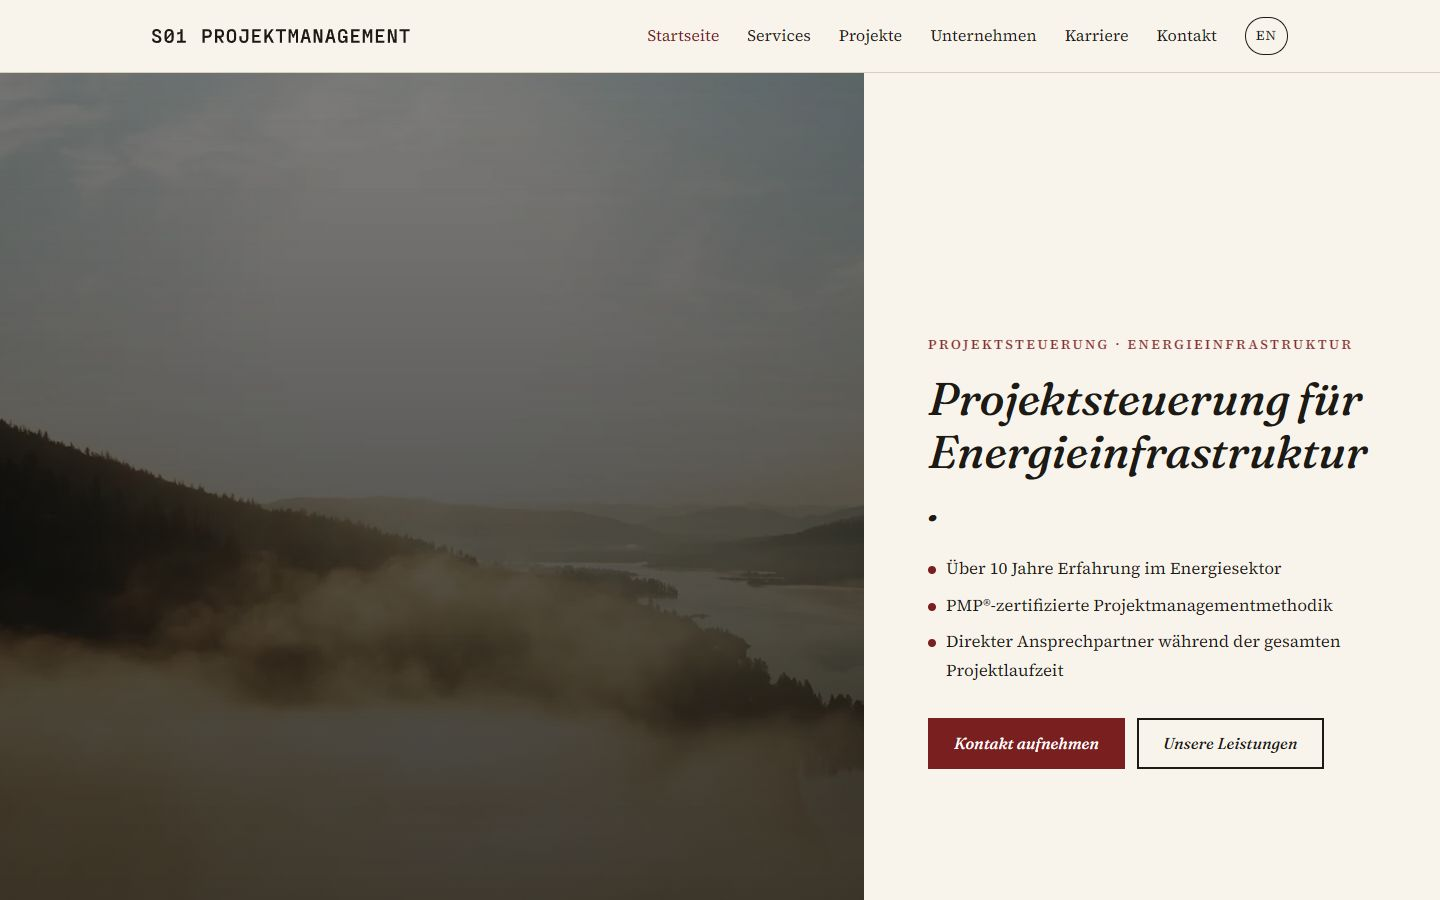
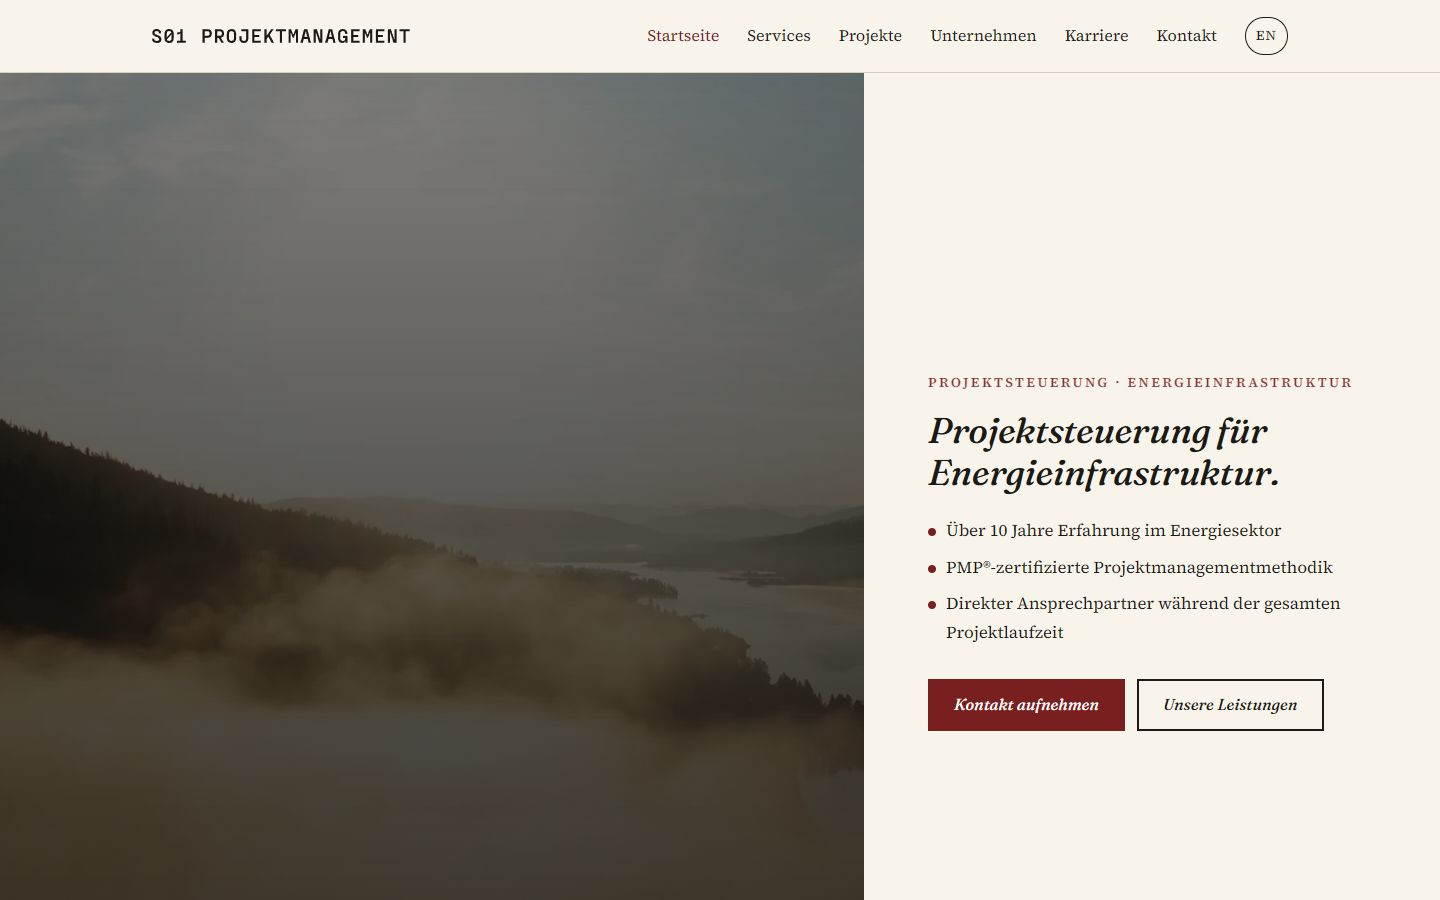
Keep headlines whole at desktop widths: wider split-hero column, four-column grids from 1280px, headline caps
A controller visual pass of all 24 desktop thumbnails found the hero title breaking before its final word or period in demos 07, 10, 11, 20 and 21, and a scan at 768 to 1440px found 17-letter pillar headings breaking in four-column grids between 1024 and 1279px. Kit: the split hero uses equal columns from 1024px and the 3:2 split only from 1366px, with a smaller title; four-column grids and steps start at 1280px and three-column grids at 1100px; sidebar layouts keep two columns longer; pillar headings are 1.125rem; page-hero titles get a 28ch box; the glass hero panel loses side padding on phones. Themes: 11, 21 and 22 cap their headline size; 06 drops uppercase h3 below 1024px and shrinks pillar headings. Every demo now measures clean for overflow, split words up to 20 letters and orphaned punctuation at 320, 360, 390, 768, 1024, 1100, 1200, 1280, 1366 and 1440px, except 18+ letter h3 words at 360 and 1024px that hyphenate in browsers with a German dictionary. Thumbnails regenerated.

Claude-Session: https://claude.ai/code/session_01MvgPpcENZGA6QrERHRxL79

Changed region(s): [[0.625, 0.3733, 0.9688, 0.5911], [0.625, 0.6222, 0.9375, 0.8711]]

diff --git a/kit/base.css b/kit/base.css
@@ -78,7 +78,8 @@ table { border-collapse: collapse; width: 100%; }
 .lead { font-size: 1.15rem; color: var(--muted); }
 .grid { display: grid; gap: 24px; }
 @media (min-width: 640px) { .grid-2, .grid-3, .grid-4 { grid-template-columns: repeat(2, minmax(0, 1fr)); } }
-@media (min-width: 1024px) { .grid-3 { grid-template-columns: repeat(3, minmax(0, 1fr)); } .grid-4 { grid-template-columns: repeat(4, minmax(0, 1fr)); } }
+@media (min-width: 1100px) { .grid-3 { grid-template-columns: repeat(3, minmax(0, 1fr)); } }
+@media (min-width: 1280px) { .grid-4 { grid-template-columns: repeat(4, minmax(0, 1fr)); } }
 .card { background: var(--surface); border: 1px solid var(--border); border-radius: var(--radius-lg); overflow: hidden; display: flex; flex-direction: column; }
 .card-pad, .project-card, .job { padding: 28px; }
 .card-body { padding: 24px; display: flex; flex-direction: column; flex: 1; }
@@ -88,7 +89,7 @@ img[src$="engineer-substation.jpg"] { object-position: 50% 22%; }
 .label { font-size: 0.8rem; text-transform: uppercase; letter-spacing: 0.1em; color: var(--muted); margin-bottom: 6px; }
 .num { font-family: var(--font-heading); font-weight: 700; color: var(--accent); font-variant-numeric: tabular-nums; }
 .num.big { font-size: 2.5rem; line-height: 1; display: block; margin-bottom: 12px; }
-.pillar h3 { margin-bottom: 8px; }
+.pillar h3 { margin-bottom: 8px; font-size: 1.125rem; }
 .pillar p { color: var(--muted); margin: 0; }
 
 /* lists */
@@ -174,9 +175,9 @@ body.nav-transparent-layout:not(.page-home) .nav-transparent:not(.is-scrolled), 
   body.nav-sidebar-layout main, body.nav-sidebar-layout .site-footer { margin-left: var(--sidebar-w); }
   body.nav-sidebar-layout { --max-width: 1100px; }
 }
-@media (min-width: 1024px) and (max-width: 1279px) {
-  body.nav-sidebar-layout .grid-3, body.nav-sidebar-layout .grid-4, body.nav-sidebar-layout .stats, body.nav-sidebar-layout .steps { grid-template-columns: repeat(2, minmax(0, 1fr)); }
-  body.nav-sidebar-layout .hero-split { grid-template-columns: minmax(0, 1fr) minmax(0, 1fr); }
+@media (min-width: 1024px) { body.nav-sidebar-layout .grid-4, body.nav-sidebar-layout .steps { grid-template-columns: repeat(2, minmax(0, 1fr)); } }
+@media (min-width: 1024px) and (max-width: 1439px) {
+  body.nav-sidebar-layout .grid-3, body.nav-sidebar-layout .stats { grid-template-columns: repeat(2, minmax(0, 1fr)); }
   body.nav-sidebar-layout .hero-split .hero-content { padding-inline: 28px; }
 }
 
@@ -201,17 +202,22 @@ body.nav-transparent-layout:not(.page-home) .nav-transparent:not(.is-scrolled), 
 .hero-glass { align-items: center; }
 .hero-glass .hero-content { padding-bottom: 12vh; }
 .glass-panel { background: rgba(255, 255, 255, 0.12); border: 1px solid rgba(255, 255, 255, 0.28); backdrop-filter: blur(18px) saturate(140%); -webkit-backdrop-filter: blur(18px) saturate(140%); border-radius: var(--radius-lg); padding: clamp(24px, 4vw, 48px); max-width: 720px; box-shadow: 0 30px 80px rgba(0, 0, 0, 0.25); }
+@media (max-width: 639px) { .glass-panel { padding-inline: 16px; } }
 .hero-split { display: grid; grid-template-columns: minmax(0, 1fr); grid-template-rows: 60svh auto; align-items: stretch; color: var(--fg); min-height: 100svh; }
 .hero-split-media { position: relative; min-height: 60svh; }
 .hero-split .hero-content { padding: 48px var(--gutter); display: flex; flex-direction: column; justify-content: center; background: var(--bg); color: var(--fg); }
 .hero-split .hero-bullets li::before { background: var(--accent); }
 @media (min-width: 1024px) {
-  .hero-split { grid-template-columns: minmax(0, 3fr) minmax(0, 2fr); grid-template-rows: none; }
+  .hero-split { grid-template-columns: minmax(0, 1fr) minmax(0, 1fr); grid-template-rows: none; }
   .hero-split-media { min-height: 100svh; }
   .hero-split .hero-content { padding: calc(var(--nav-h) + 48px) 64px 64px; }
-  .hero-split .hero-title { font-size: clamp(2rem, 3.2vw, 3.4rem); }
+  .hero-split .hero-title { font-size: clamp(1.9rem, 2.5vw, 3rem); }
   .glass-panel .hero-title { font-size: clamp(2rem, 4.2vw, 3.6rem); }
-  body.nav-sidebar-layout .hero-split .hero-title { font-size: clamp(1.8rem, 2.4vw, 2.4rem); }
+  body.nav-sidebar-layout .hero-split .hero-title { font-size: clamp(1.8rem, 2.2vw, 2.4rem); }
+}
+@media (min-width: 1366px) {
+  .hero-split { grid-template-columns: minmax(0, 3fr) minmax(0, 2fr); }
+  body.nav-sidebar-layout .hero-split { grid-template-columns: minmax(0, 1fr) minmax(0, 1fr); }
 }
 .hero-play { position: absolute; right: 24px; top: calc(var(--nav-h) + 24px); z-index: 2; width: 64px; height: 64px; border-radius: 50%; border: 2px solid rgba(255, 255, 255, 0.7); background: rgba(0, 0, 0, 0.45); color: #fff; display: flex; align-items: center; justify-content: center; cursor: pointer; }
 .hero-play[hidden] { display: none; }
@@ -236,7 +242,7 @@ body.snap-home .site-footer { scroll-snap-align: end; }
 /* ===== Page hero (subpages) ===== */
 .page-hero { position: relative; padding: 56px 0 48px; background: var(--surface); overflow: hidden; isolation: isolate; }
 .page-hero .container { position: relative; z-index: 1; }
-.page-hero h1 { margin-bottom: 12px; max-width: 24ch; }
+.page-hero h1 { margin-bottom: 12px; max-width: 28ch; }
 .page-hero .lead { max-width: 720px; margin: 0; }
 .page-hero.has-media { color: var(--hero-fg); min-height: 52svh; display: flex; align-items: flex-end; }
 .page-hero.has-media .lead { color: inherit; opacity: 0.9; }
@@ -396,7 +402,7 @@ body.snap-home .site-footer { scroll-snap-align: end; }
 .job-actions { margin-top: auto; padding-top: 20px; display: flex; flex-wrap: wrap; gap: 12px; }
 .steps { list-style: none; padding: 0; margin: 0; display: grid; gap: 24px; counter-reset: step; }
 @media (min-width: 768px) { .steps { grid-template-columns: repeat(2, minmax(0, 1fr)); } }
-@media (min-width: 1024px) { .steps { grid-template-columns: repeat(4, minmax(0, 1fr)); } }
+@media (min-width: 1280px) { .steps { grid-template-columns: repeat(4, minmax(0, 1fr)); } }
 .step { padding: 24px; background: var(--surface); border: 1px solid var(--border); border-radius: var(--radius-lg); }
 .step .num { font-size: 2rem; display: block; margin-bottom: 12px; }
 .step p { color: var(--muted); margin: 0; }

diff --git a/demos/06-brutalist/theme.css b/demos/06-brutalist/theme.css
@@ -57,3 +57,5 @@ h1, h2, h3 { text-transform: uppercase; letter-spacing: -0.01em; font-weight: 40
 /* Phone sizes: the phone rules come last so they win over the uppercase and size rules above. */
 @media (max-width: 639px) { .hero-title { display: block; padding: 0.1em 0.2em; } h1, h2, h3, .acc-trigger { text-transform: none; } }
 @media (max-width: 359px) { .acc-trigger { font-size: 1rem; } }
+@media (max-width: 1023px) { h3 { text-transform: none; } }
+@media (min-width: 1280px) { .pillar h3 { font-size: 1rem; } }

diff --git a/demos/21-snap-fullscreen/theme.css b/demos/21-snap-fullscreen/theme.css
@@ -15,7 +15,7 @@
   --shadow: 0 20px 60px rgba(0, 0, 0, 0.5);
   --font-heading: "Montserrat", system-ui, sans-serif;
   --font-body: "Montserrat", system-ui, sans-serif;
-  --h1: clamp(1.75rem, 7vw, 5.6rem);
+  --h1: clamp(1.75rem, 5.5vw, 4.6rem);
   --h2: clamp(1.5rem, 3.4vw, 2.6rem);
 }
 h1, h2 { font-weight: 800; letter-spacing: -0.02em; text-transform: uppercase; }

diff --git a/demos/11-industrial/theme.css b/demos/11-industrial/theme.css
@@ -15,7 +15,7 @@
   --shadow: none;
   --font-heading: "Barlow Condensed", Impact, sans-serif;
   --font-body: "Barlow", system-ui, sans-serif;
-  --h1: clamp(2rem, 9vw, 7.5rem);
+  --h1: clamp(2rem, 9vw, 6.8rem);
   --h2: clamp(1.8rem, 5vw, 4rem);
 }
 h1, h2, h3, .btn, .eyebrow, .hero-eyebrow, .site-nav a, .tagline-big { text-transform: uppercase; }

diff --git a/demos/22-monochrome/theme.css b/demos/22-monochrome/theme.css
@@ -17,7 +17,7 @@
   --font-body: "Work Sans", system-ui, sans-serif;
   --max-width: 1040px;
   --section-y: 140px;
-  --h1: clamp(1.9rem, 7vw, 6rem);
+  --h1: clamp(1.9rem, 7vw, 5.6rem);
   --lh: 1.75;
 }
 img, .hero-video, .hero-media { filter: grayscale(1) contrast(1.05); }
